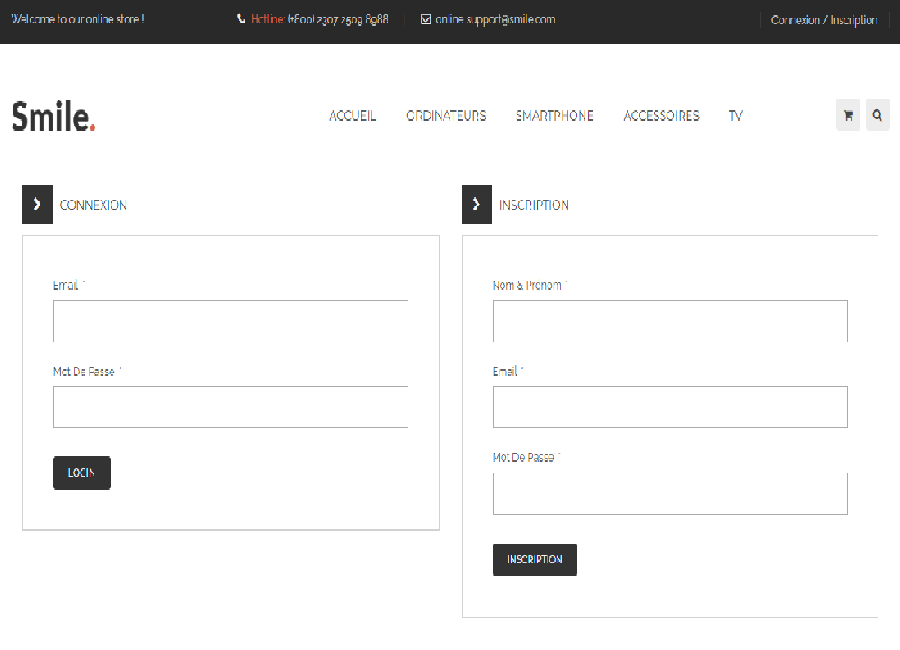
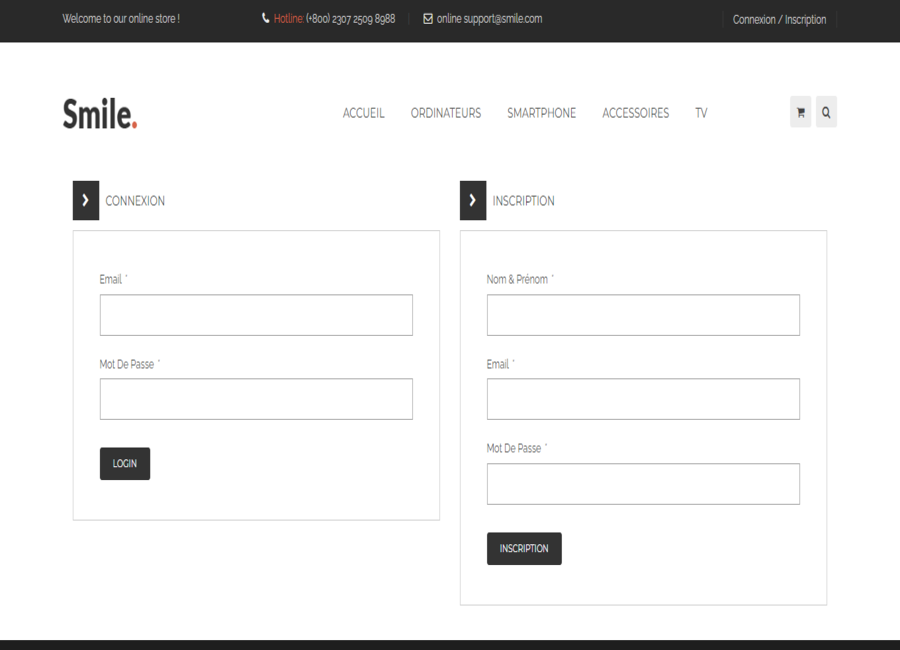
Plusieurs modifs
Changement des images
Mise en forme des textes et ajout des langages utilisés

diff --git a/css/styles.css b/css/styles.css
@@ -8322,6 +8322,10 @@ fieldset:disabled .btn {
   text-align: center !important;
 }
 
+.text-justify {
+  text-align: justify !important;
+}
+
 .text-decoration-none {
   text-decoration: none !important;
 }

diff --git a/index.php b/index.php
@@ -4,7 +4,8 @@
 if (array_key_exists("action", $_GET)) {
 
     switch ($_GET['action']) {
-            //si index.php?action=categorie ==alors il va appeler le controlleurs categorie.php qui va de son cote communiquer avec le model et faire l affichage dans la page(view)
+            //si index.php?action=contact ==alors il va appeler le controlleurs contact.php
+            // qui va de son cote communiquer avec le model et faire l affichage dans la page(view)
         case "contact":
             include 'controllers/contact.php';
             break;
